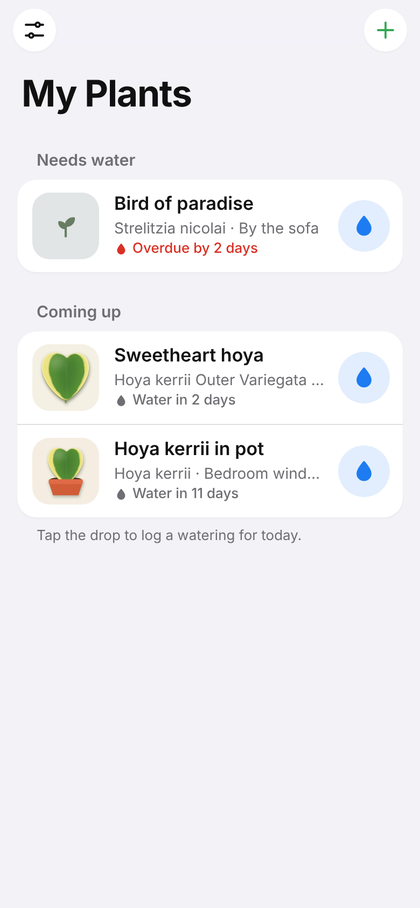
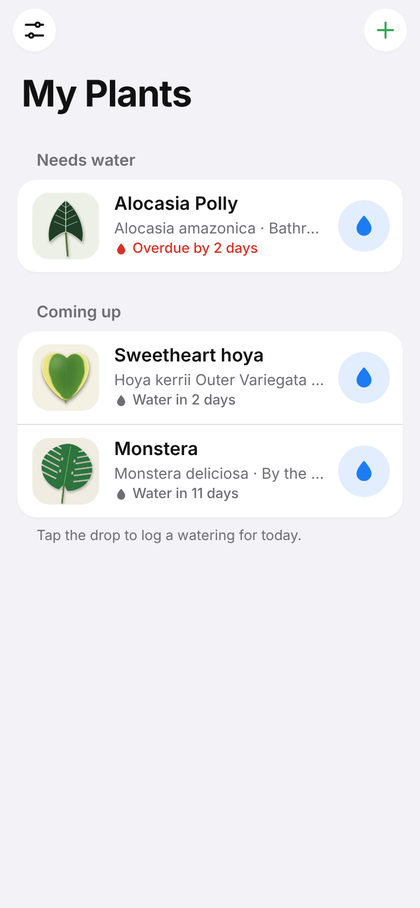
Update guide screenshots with new example plants
Example plants are now Sweetheart hoya, Alocasia Polly and Monstera,
with original drawings as their photos. Adds the add-plant screenshot
to the guide so every image in the repository is in use.

Claude-Session: https://claude.ai/code/session_01W3wJfN4zmsQeVEkfjEuKBq

diff --git a/docs/SETUP.md b/docs/SETUP.md
@@ -126,6 +126,9 @@ Each space is separate. Someone you invite to **Home** cannot see **Work**, even
 
 - **Home screen:** plants that need water come first, with how many days are left or overdue. Tap the blue **drop** to log a watering for today. Tap **Undo** in the message at the bottom if that was a mistake.
 - **Add a plant:** tap **+**. Add a photo, a name, the type of plant, where it sits, how often to water it, and care notes.
+
+  <img src="images/04-add-plant.png" width="260" alt="Adding a new plant">
+
 - **Plant page:** tap **Water**, **Feed** or **Repot** to log it for today, or **Log a different date** for past care. Add **progress photos** to watch it grow. Tap a history entry to remove it.
 - **Spaces:** when you have more than one, use the **All / Home / Work** buttons at the top of the home screen.
 - **Offline:** changes made without a connection are saved on the phone and upload automatically when you're back online.
